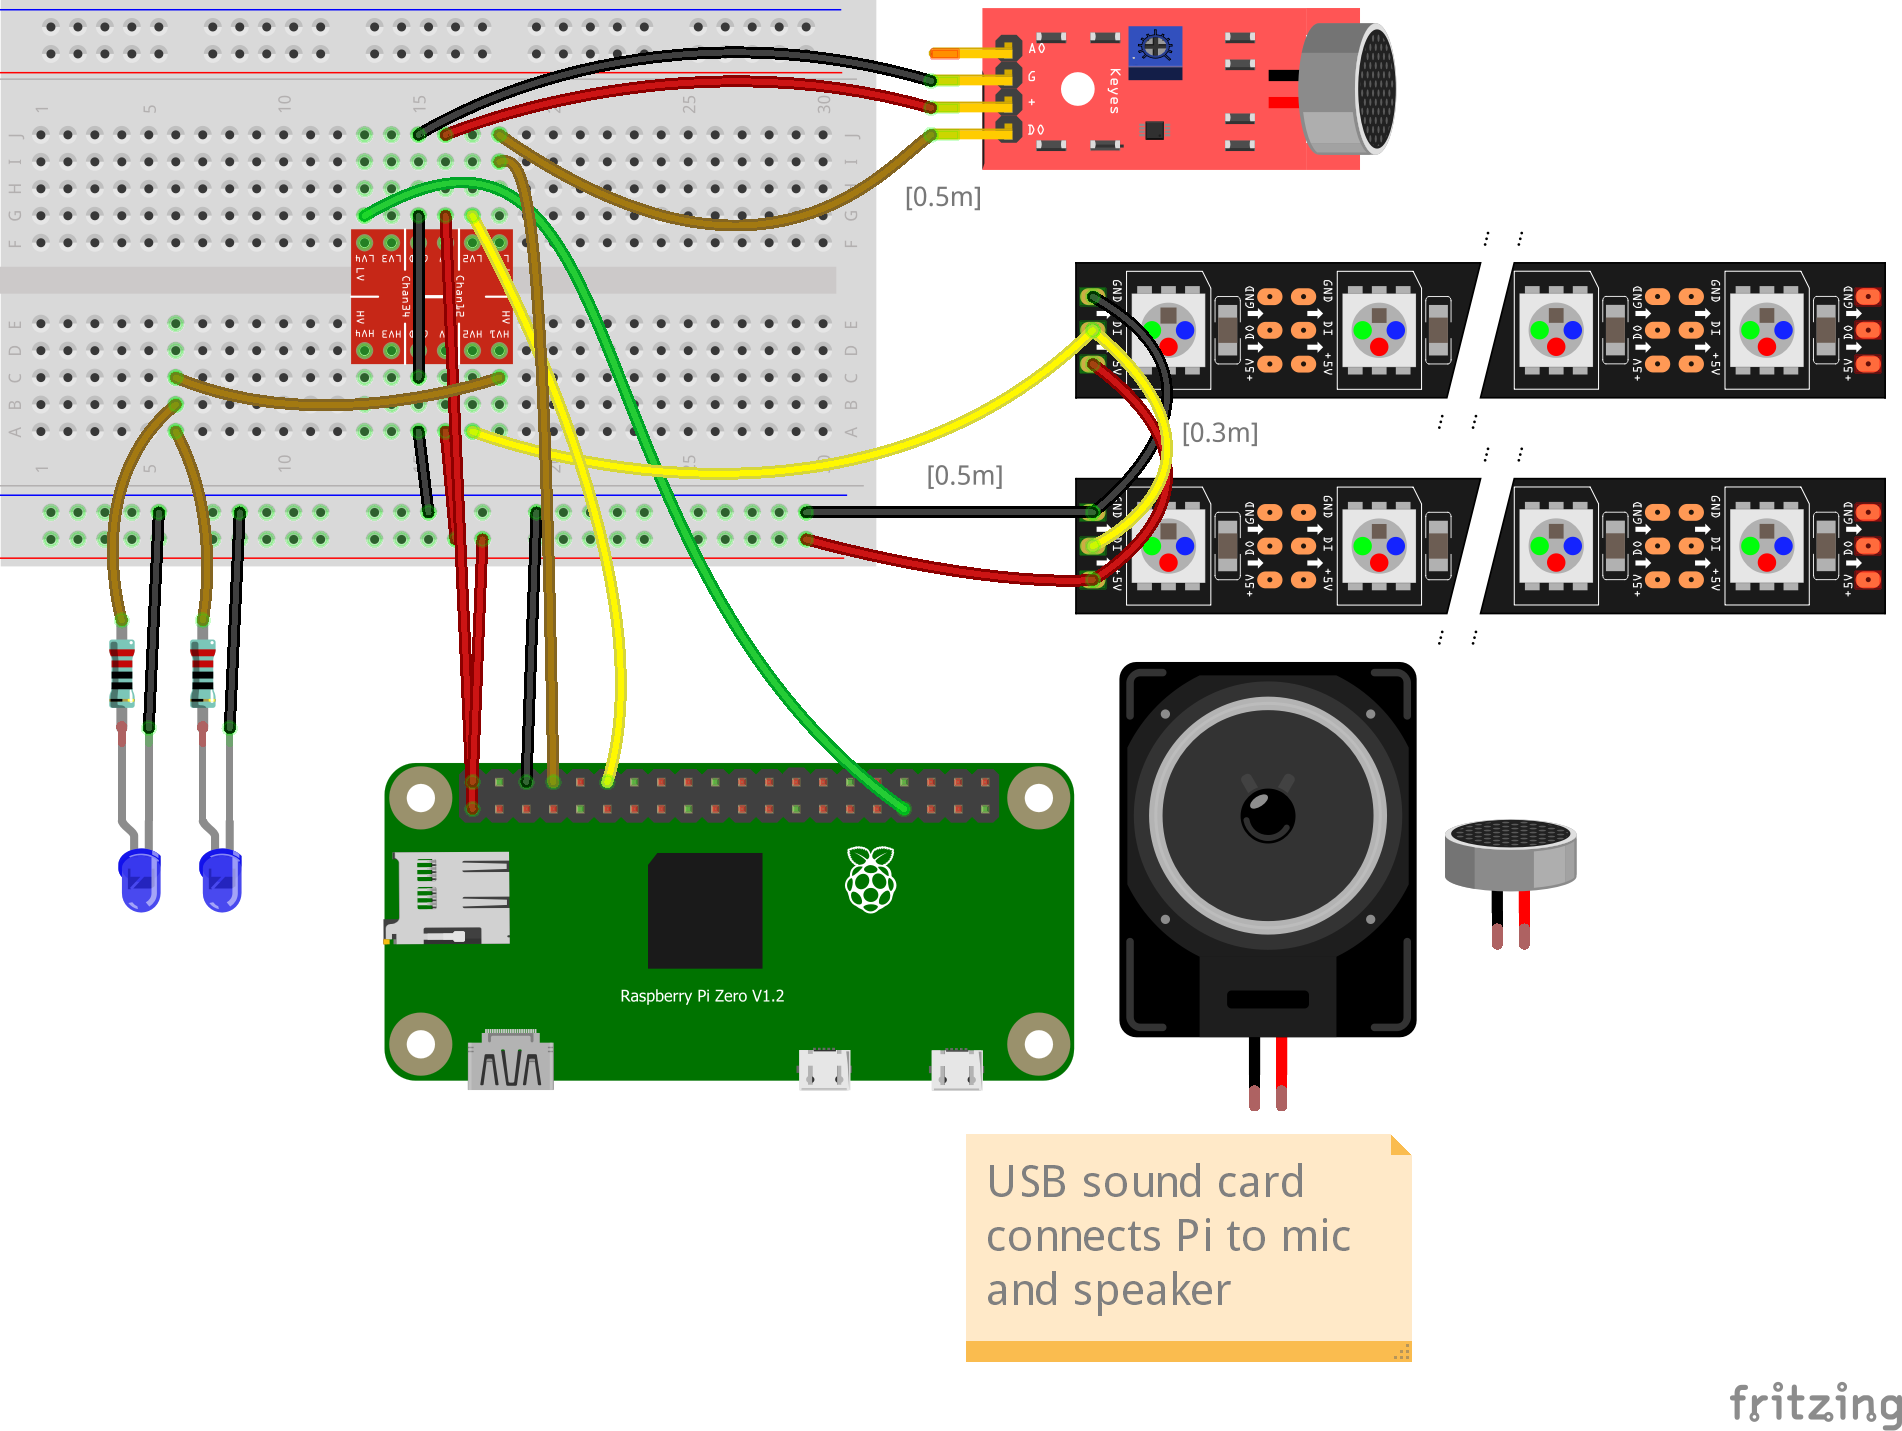
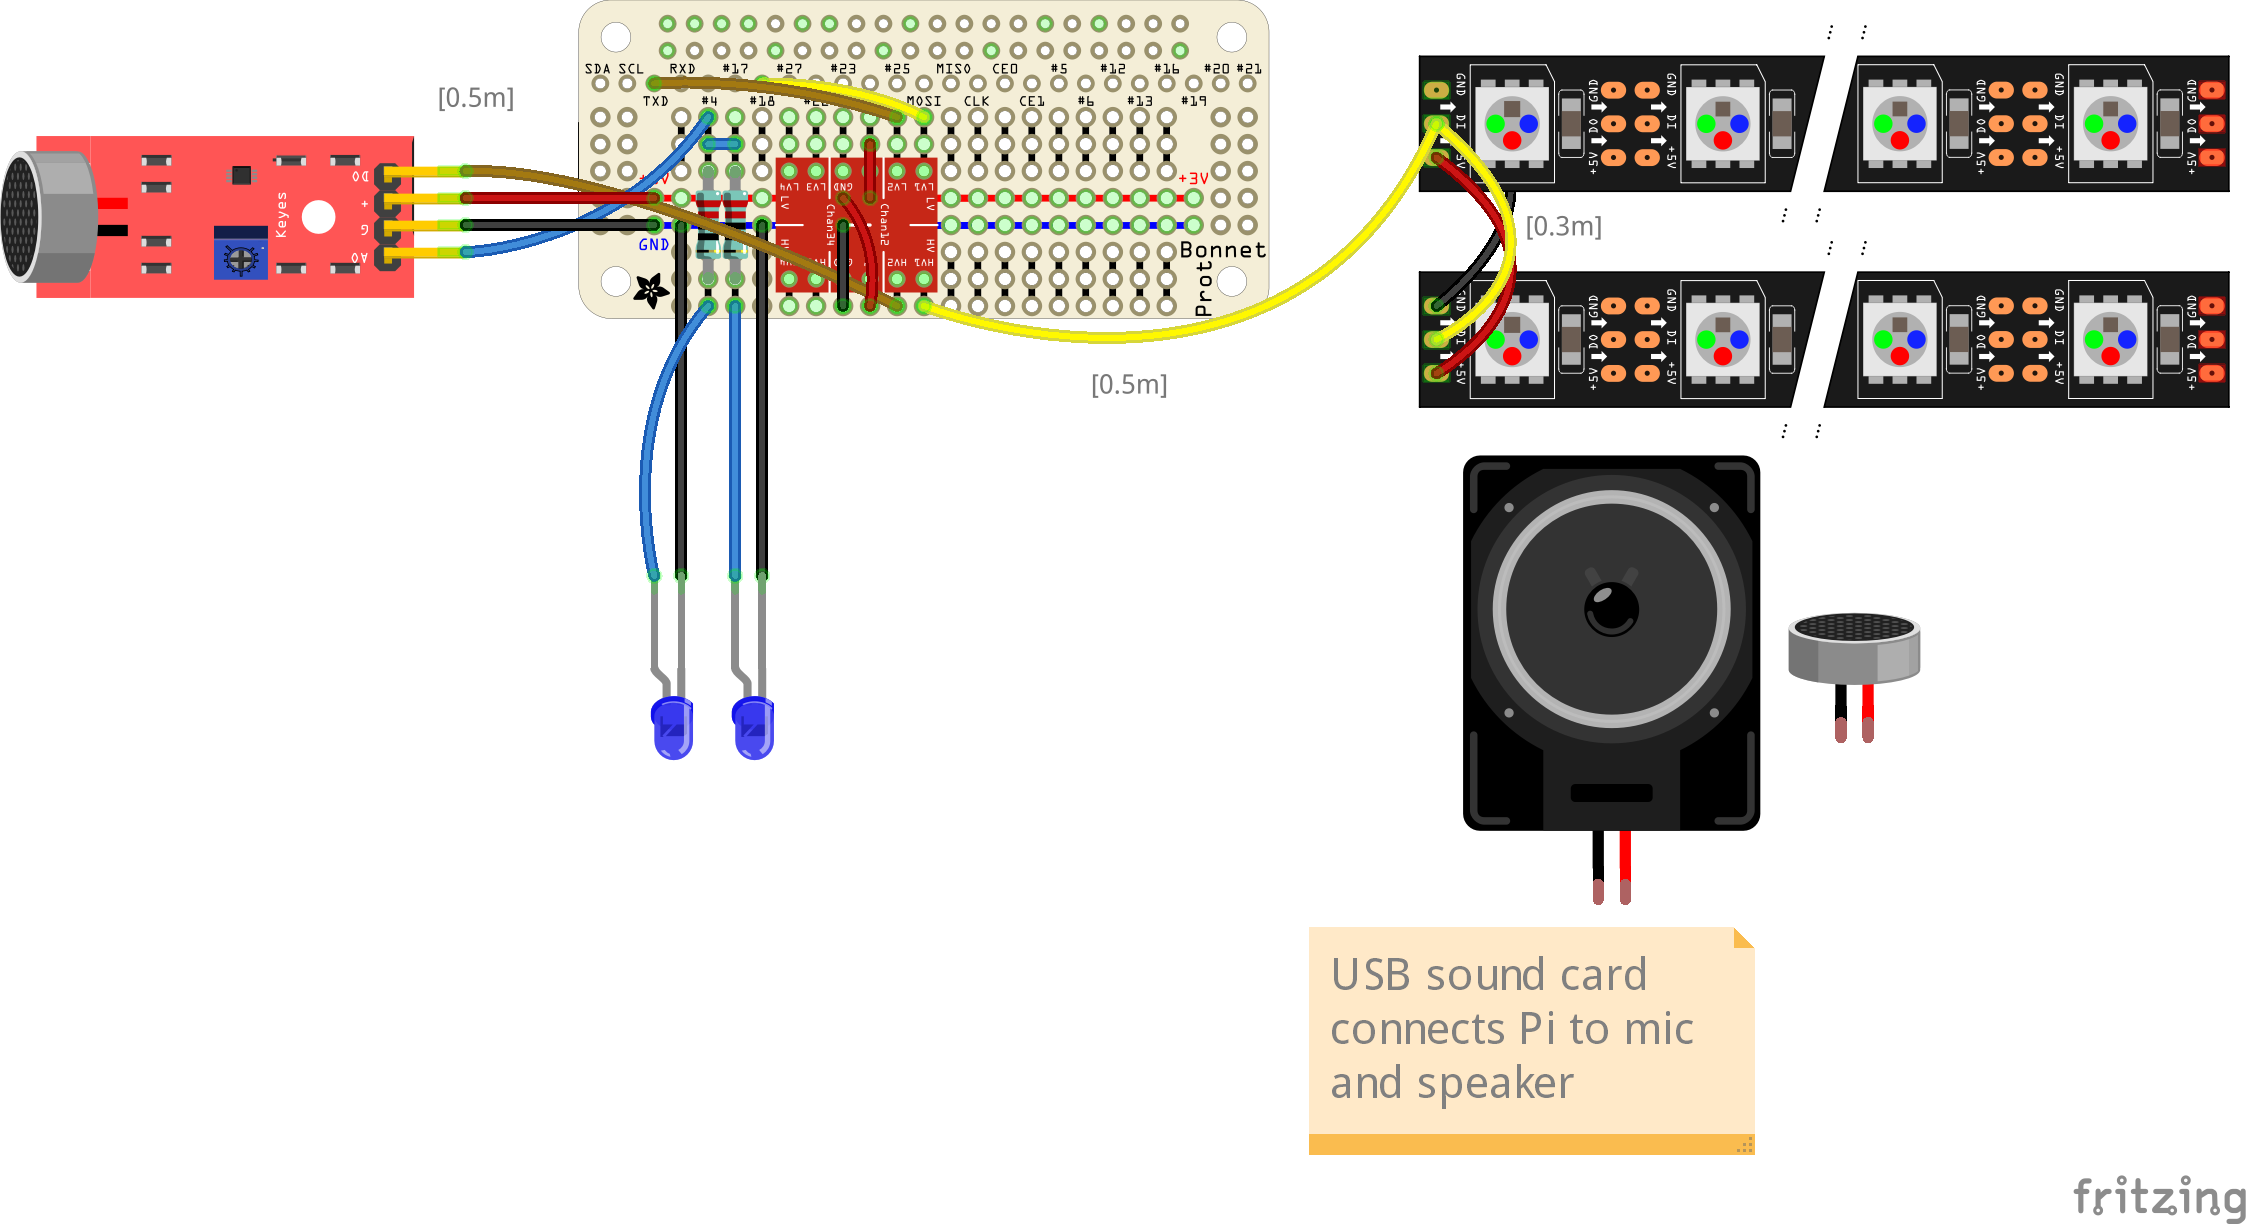
Modified hardware in use to miniaturise design

diff --git a/Install/install.py b/Install/install.py
@@ -27,28 +27,19 @@ def install_dependencies():
     os.system("sudo pip3 install rpi_ws281x")
     print("================== Completed Installing rpi_ws281x ==================")
     
-    print("================== Start Installing PyPNG ==================")
-    os.system("sudo pip3 install git+https://gitlab.com/drj11/pypng@pypng-0.20220715.0")
-    print("================== Completed Installing PyPNG ==================")
-    
     print("================== Start Installing Sox ==================")
     os.system("sudo apt-get install sox -y")
     print("================== Completed Installing Sox ==================")
+    
+    print("================== Setup voice bonnet ==================")
+    os.system("sudo apt-get install git -y")
+    os.system("git clone https://github.com/HinTak/seeed-voicecard")
+    os.system("cd seeed-voicecard")
+    os.system("../")
+    os.system("sudo ./install.sh")
+    print("================== Completed setting up voice bonnet ==================")
 
-def edit_alsa_conf():
-    print("================== Creating backup of alsa.conf ==================")
-    copy2('/usr/share/alsa/alsa.conf', '/usr/share/alsa/alsa.conf.bak')
-    print("================== Completed backup of alsa.conf -> alsa.conf.bak ==================")
-
-    print("================== Replacing text in alsa.conf ==================")
-    with open('/usr/share/alsa/alsa.conf', 'r') as file:
-        filedata = file.read()
-        filedata = filedata.replace("defaults.ctl.card 0", "defaults.ctl.card 1")
-        filedata = filedata.replace("defaults.pcm.card 0", "defaults.pcm.card 1")
-    with open('/usr/share/alsa/alsa.conf', 'w') as file:
-        file.write(filedata)
-
-    print("================== Completed replacing text in alsa.conf ==================")
+    print("================== Rebooting ==================")
+    os.system("sudo reboot")
 
 install_dependencies()
-edit_alsa_conf()

diff --git a/Python/main.py b/Python/main.py
@@ -1,20 +1,17 @@
 # install.py
 # Version: 1.0.0
-# Contains main processing code required for DaftPunk cosplay
+# Contains main processing code required for Stormtrooper cosplay
 # Author: Billy Wood
 
 import os
-import animationPlayer
 import threading
-from mouthAnims import runMouthAnims
 from audioMonitor import runAudioMonitor
-from animationPlayer import playAnimation, clearMatrix
 
 def runVoiceChanger():
     os.system("/usr/bin/play \"|rec --buffer 2096 -d pitch -300 echos 0.8 0.88 100 0.6 150 .5 band 1.2k 1.5k\"")
 
 def main():
-    voiceChangerThread = threading.Thread(target=runVoiceChanger)
+    voiceChangerThread = threading.Thread(target = runVoiceChanger)
     voiceChangerThread.start()
     audioMonitorThread = threading.Thread(target = runAudioMonitor)
     audioMonitorThread.start()

diff --git a/Python/audioMonitor.py b/Python/audioMonitor.py
@@ -10,8 +10,8 @@ import math
 
 # This function is run once and contains the loop that handles the audiomonitoring
 def runAudioMonitor():
-    audioDetectorPin = 14
-    animPin = 18
+    audioDetectorPin = 25
+    animPin = 10
     timeBetweenGpioChecks = 1 # ms
     timeBetweenLedChanges = 100 # ms
     ledCount = 7
